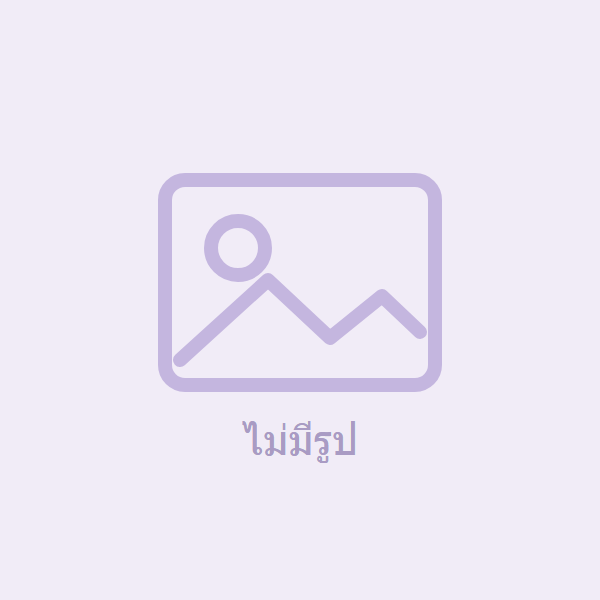
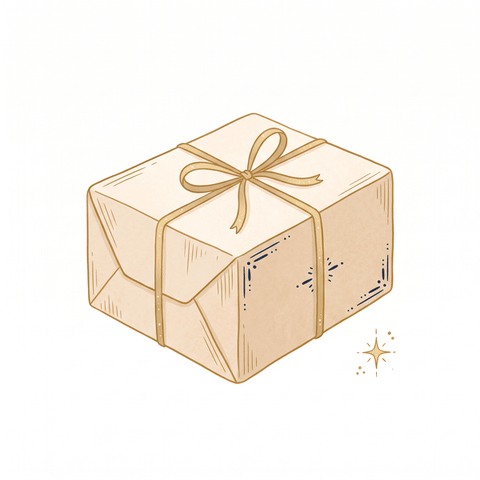
feat(storefront): ตกแต่งหน้าแรกจริง (หน้าร้าน) — ภาพหมวดหมู่ 10 ชุด + กล่องพัสดุแทนรูปที่หายไป
⚠ รอบก่อนตกแต่ง frontend.home-v4 ซึ่งตอนนี้ไม่ใช่หน้าแรกแล้ว
   owner สลับให้ '/' = หน้าร้าน (storefront) ส่วน home-v4 ย้ายไปเป็นหน้า "รู้จักเรา" /about
   รอบนี้จึงตกแต่งหน้าที่คนเห็นจริงตอนเข้าเว็บ

ภาพหมวดหมู่ (ชั้นใหม่ใน CategoryImageService)
- เดิมภาพปกหมวดมี 3 ชั้น: ภาพแอดมิน → โมเสกสินค้าจริง → gradient+ไอคอน
  โมเสกคือภาพสินค้าเล็ก ๆ 4 ช่องปะกัน สีไม่เข้ากันและดูรกบนหน้าแรก
- เพิ่ม "ชั้น 1.5" = ภาพวาดประจำหมวดที่เจนเอง (cat-*.webp) คั่นก่อนโมเสก
  แอดมินอัปโหลดเองยังชนะเสมอ และถ้าไม่มีไฟล์ก็ตกไปใช้ชั้นเดิมตามปกติ
- ART_MAP จับคู่ชื่อ/slug แบบเดียวกับ ICON_MAP (exact ก่อน, substring เฉพาะคีย์ยาว >=4)
  ครอบคลุม 10 หมวด: อิเล็กทรอนิกส์ แฟชั่น ความงาม บ้านและสวน กีฬา หนังสือ ของเล่น
  เติมเงิน/วอลเลต อาหาร/ตลาดสด ยานยนต์

รูปสินค้าที่หายไป
- เปลี่ยน public/images/no-image.png จากกล่องสีม่วงเป็นภาพกล่องพัสดุผูกริบบิ้นทอง
  ใช้ชื่อไฟล์เดิม → ทั้ง 14 จุดที่อ้างถึงได้ของใหม่ทันทีโดยไม่ต้องแก้โค้ด
  (บีบเป็น palette PNG 480px เหลือ ~100KB)

กล่องรับข่าวสาร: เพิ่มพื้นผิวริบบิ้น soft-light ทับไล่เฉดส้ม

หมายเหตุ deploy: CategoryImageService cache แผนที่ภาพปกไว้ 1 ชม.
ถ้าไม่เห็นภาพหมวดเปลี่ยนทันที ให้รอ cache หมดอายุ หรือ php artisan cache:clear

Changed region(s): [[0.1562, 0.2188, 0.8438, 0.8125], [0.75, 0.6875, 0.8125, 0.7812]]

diff --git a/app/Services/CategoryImageService.php b/app/Services/CategoryImageService.php
@@ -205,6 +205,98 @@ class CategoryImageService
     ];
 
     /**
+     * ตารางภาพวาดประจำหมวด → ชื่อไฟล์ใน public/images/art/{file}.webp
+     *
+     * ใช้เป็น "ชั้น 1.5" ของภาพปก: สวยกว่าโมเสกสินค้า แต่ยอมให้ภาพที่แอดมินอัปโหลดชนะเสมอ
+     * ⚠ กติกาเดียวกับ ICON_MAP — exact ก่อน, substring เฉพาะคีย์ยาว >= 4 ตัวอักษร
+     *
+     * @example เพิ่มหมวดใหม่: เจนภาพ 4:3 → เซฟเป็น public/images/art/cat-xxx.webp → เพิ่มคีย์ที่นี่
+     */
+    private const ART_MAP = [
+        // อิเล็กทรอนิกส์
+        'อิเล็กทรอนิกส์' => 'cat-electronics',
+        'electronics' => 'cat-electronics',
+        'คอมพิวเตอร์' => 'cat-electronics',
+        'computer' => 'cat-electronics',
+        'โทรศัพท์' => 'cat-electronics',
+        'มือถือ' => 'cat-electronics',
+        'mobile' => 'cat-electronics',
+        'gadget' => 'cat-electronics',
+
+        // แฟชั่น
+        'แฟชั่น' => 'cat-fashion',
+        'fashion' => 'cat-fashion',
+        'เสื้อผ้า' => 'cat-fashion',
+        'clothing' => 'cat-fashion',
+        'เครื่องแต่งกาย' => 'cat-fashion',
+        'apparel' => 'cat-fashion',
+        'รองเท้า' => 'cat-fashion',
+        'shoes' => 'cat-fashion',
+
+        // ความงาม
+        'ความงาม' => 'cat-beauty',
+        'beauty' => 'cat-beauty',
+        'เครื่องสำอาง' => 'cat-beauty',
+        'cosmetic' => 'cat-beauty',
+        'ของใช้ส่วนตัว' => 'cat-beauty',
+        'personal care' => 'cat-beauty',
+        'สุขภาพ' => 'cat-beauty',
+
+        // บ้านและสวน
+        'บ้านและสวน' => 'cat-home',
+        'home garden' => 'cat-home',
+        'เฟอร์นิเจอร์' => 'cat-home',
+        'furniture' => 'cat-home',
+        'ตกแต่งบ้าน' => 'cat-home',
+        'home decor' => 'cat-home',
+
+        // กีฬา
+        'กีฬา' => 'cat-sports',
+        'sports' => 'cat-sports',
+        'กลางแจ้ง' => 'cat-sports',
+        'outdoor' => 'cat-sports',
+        'ฟิตเนส' => 'cat-sports',
+        'fitness' => 'cat-sports',
+
+        // หนังสือ
+        'หนังสือ' => 'cat-books',
+        'books' => 'cat-books',
+        'เครื่องเขียน' => 'cat-books',
+        'stationery' => 'cat-books',
+
+        // ของเล่น
+        'ของเล่น' => 'cat-toys',
+        'toys' => 'cat-toys',
+        'งานอดิเรก' => 'cat-toys',
+        'hobby' => 'cat-toys',
+        'hobbies' => 'cat-toys',
+        'แม่และเด็ก' => 'cat-toys',
+        'baby' => 'cat-toys',
+
+        // การเงิน / วอลเลต
+        'เติมเงิน' => 'cat-wallet',
+        'wallet' => 'cat-wallet',
+        'การเงิน' => 'cat-wallet',
+        'finance' => 'cat-wallet',
+        'บัตรเติมเงิน' => 'cat-wallet',
+        'top up' => 'cat-wallet',
+
+        // อาหาร / ตลาดสด
+        'อาหาร' => 'cat-food',
+        'food' => 'cat-food',
+        'ตลาดสด' => 'cat-food',
+        'grocery' => 'cat-food',
+        'เครื่องดื่ม' => 'cat-food',
+        'beverage' => 'cat-food',
+
+        // ยานยนต์
+        'ยานยนต์' => 'cat-auto',
+        'automotive' => 'cat-auto',
+        'รถยนต์' => 'cat-auto',
+        'motor' => 'cat-auto',
+    ];
+
+    /**
      * แผนที่ภาพปกของทุกหมวด (memo ระดับ request — กัน Blade เรียก cache ซ้ำ)
      *
      * @var array<int, array>|null
@@ -401,6 +493,19 @@ class CategoryImageService
             return [
                 'mode' => 'image',
                 'urls' => [$adminImage],
+                'icon' => $icon,
+                'products' => $products,
+            ];
+        }
+
+        // ชั้น 1.5 — ภาพวาดประจำหมวด (เจนเอง เก็บที่ public/images/art/cat-*.webp)
+        // อยู่ก่อนโมเสกสินค้าเพราะโมเสกภาพเล็ก 4 ช่องดูรกและสีไม่เข้ากัน
+        // แต่ยังอยู่หลังภาพที่แอดมินอัปโหลด → แอดมินกำหนดเองได้เสมอ
+        $artUrl = $this->resolveArt($category);
+        if ($artUrl !== null) {
+            return [
+                'mode' => 'image',
+                'urls' => [$artUrl],
                 'icon' => $icon,
                 'products' => $products,
             ];
@@ -650,6 +755,75 @@ class CategoryImageService
 
         if ($keys === null) {
             $keys = array_keys(self::ICON_MAP);
+            usort($keys, fn ($a, $b) => mb_strlen($b) <=> mb_strlen($a));
+        }
+
+        return $keys;
+    }
+
+    /**
+     * หาไฟล์ภาพวาดประจำหมวด (เจนเอง) จากชื่อ/slug ของหมวดหมู่
+     *
+     * ใช้กติกาจับคู่ชุดเดียวกับ resolveIcon() — exact ก่อน แล้วค่อย substring
+     * ที่คีย์ยาว >= 4 ตัวอักษร เพื่อกันชนแบบ 'ยา' ไปโดน 'ยานยนต์'
+     *
+     * @return string|null URL ของภาพ หรือ null ถ้าไม่มีไฟล์
+     *
+     * @example $this->resolveArt($cat); // https://.../images/art/cat-electronics.webp
+     */
+    private function resolveArt(ProductCategory $category): ?string
+    {
+        $name = mb_strtolower(trim((string) $category->name));
+        $slug = mb_strtolower(trim((string) $category->slug));
+
+        $file = null;
+
+        // 1) exact — slug ก่อน แล้วค่อยชื่อ (รวมแบบแปลงขีด/ขีดล่างเป็นช่องว่าง)
+        foreach ([$slug, $name] as $key) {
+            if ($key === '') {
+                continue;
+            }
+            $normalized = trim(str_replace(['-', '_'], ' ', $key));
+            $file = self::ART_MAP[$key] ?? self::ART_MAP[$normalized] ?? null;
+            if ($file !== null) {
+                break;
+            }
+        }
+
+        // 2) substring — คีย์ยาวก่อน
+        if ($file === null) {
+            foreach ($this->artKeysByLength() as $key) {
+                if (mb_strlen($key) < 4) {
+                    continue;
+                }
+                if (($name !== '' && str_contains($name, $key)) || ($slug !== '' && str_contains($slug, $key))) {
+                    $file = self::ART_MAP[$key];
+                    break;
+                }
+            }
+        }
+
+        if ($file === null) {
+            return null;
+        }
+
+        // ไฟล์ต้องมีอยู่จริง — ถ้ายังไม่ถูก deploy ให้ตกไปใช้ชั้นถัดไปตามเดิม
+        $relative = 'images/art/'.$file.'.webp';
+
+        return file_exists(public_path($relative)) ? asset($relative) : null;
+    }
+
+    /**
+     * คีย์ของตารางภาพวาดหมวด เรียงจากยาวไปสั้น (คำนวณครั้งเดียวต่อ request)
+     *
+     * @return array<int, string>
+     */
+    private function artKeysByLength(): array
+    {
+        static $keys = null;
+
+        if ($keys === null) {
+            $keys = array_keys(self::ART_MAP);
             usort($keys, fn ($a, $b) => mb_strlen($b) <=> mb_strlen($a));
         }
 

diff --git a/resources/views/storefront/index.blade.php b/resources/views/storefront/index.blade.php
@@ -840,6 +840,13 @@
         <div class="relative overflow-hidden rounded-3xl
                    bg-gradient-to-br from-orange-500 via-red-500 to-pink-600
                    p-8 md:p-12">
+            {{-- ภาพประกอบริบบิ้น/ซองจดหมาย (เจนเอง เก็บที่ public/images/art)
+                 soft-light ให้กลืนไปกับไล่เฉดส้ม ไม่แย่งสายตาจากฟอร์มสมัคร --}}
+            @if(file_exists(public_path('images/art/newsletter-bg.webp')))
+                <img src="{{ asset('images/art/newsletter-bg.webp') }}" alt="" aria-hidden="true" loading="lazy" decoding="async"
+                     class="absolute inset-0 w-full h-full object-cover pointer-events-none"
+                     style="opacity:.34; mix-blend-mode:soft-light;">
+            @endif
             {{-- Background Pattern --}}
             <div class="absolute inset-0 opacity-20">
                 <div class="absolute inset-0" style="background-image: radial-gradient(circle at 2px 2px, white 1px, transparent 0); background-size: 40px 40px;"></div>
